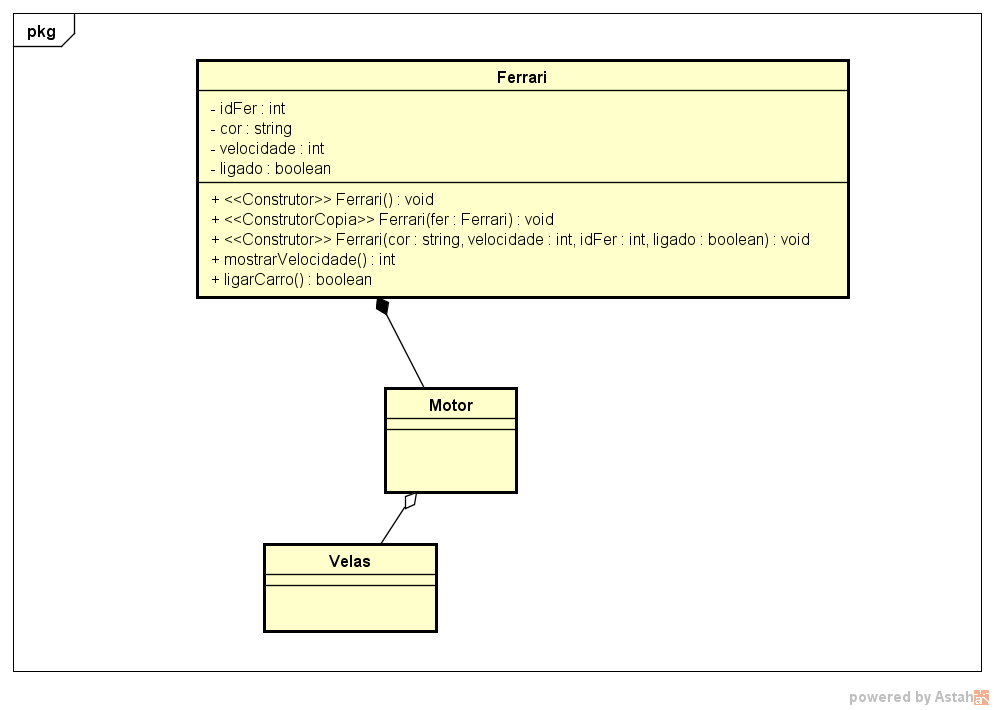
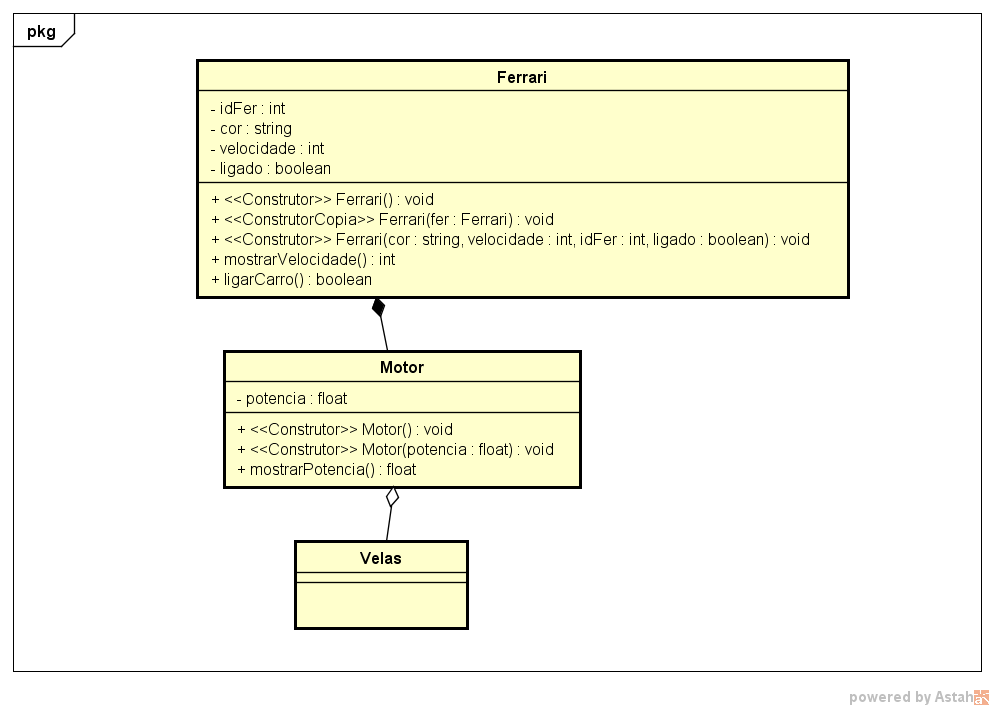
Ajustes atividade 4.

Changed region(s): [[0.2183, 0.4028, 0.5926, 0.8986]]

diff --git a/main.cpp b/main.cpp
@@ -22,6 +22,15 @@ int main(int argc, char **argv){
 }
 
 /*Lista de requisitos
+1 nova classe relacionada ao seu projeto
+2 alocações dinâmicas de memória - uma similar ao do exemplo do livro - slide 85
+Uso explicito do ponteiro this
+Uso do destrutor
+Sobrecarga dos operadores
+= (atribuição)
+==
+~=
+
 3 construtores - incluindo um de cópia
 2 métodos - não pode ser get ou set
 1 método extra que precisa ser const

diff --git a/Motor.cpp b/Motor.cpp
@@ -1,0 +1,15 @@
+#include "Motor.h"
+#include <iostream>
+using std::cout;
+
+Motor::Motor(){
+    this->potencia = 0;
+}
+
+Motor::mostrarPotencia(){
+    cout << "A potência do motor é " << potencia <<'\n';
+}
+
+Motor::~Motor(){
+}
+

diff --git a/Ferrari.cpp b/Ferrari.cpp
@@ -13,7 +13,6 @@ Ferrari::Ferrari(){                         //Construtor
     this->cor = "desconhecido";
     
     numeroFerraris++;
-    
 }
 
 Ferrari::Ferrari(const Ferrari &p){         //Construtor de cópia

diff --git a/Motor.h b/Motor.h
@@ -1,0 +1,16 @@
+#ifndef MOTOR_H
+#define MOTOR_H
+
+class Motor
+{
+public:
+    Motor();
+    ~Motor();
+    void mostrarPotencia();
+    
+private:
+    float potencia;
+
+};
+
+#endif // MOTOR_H
